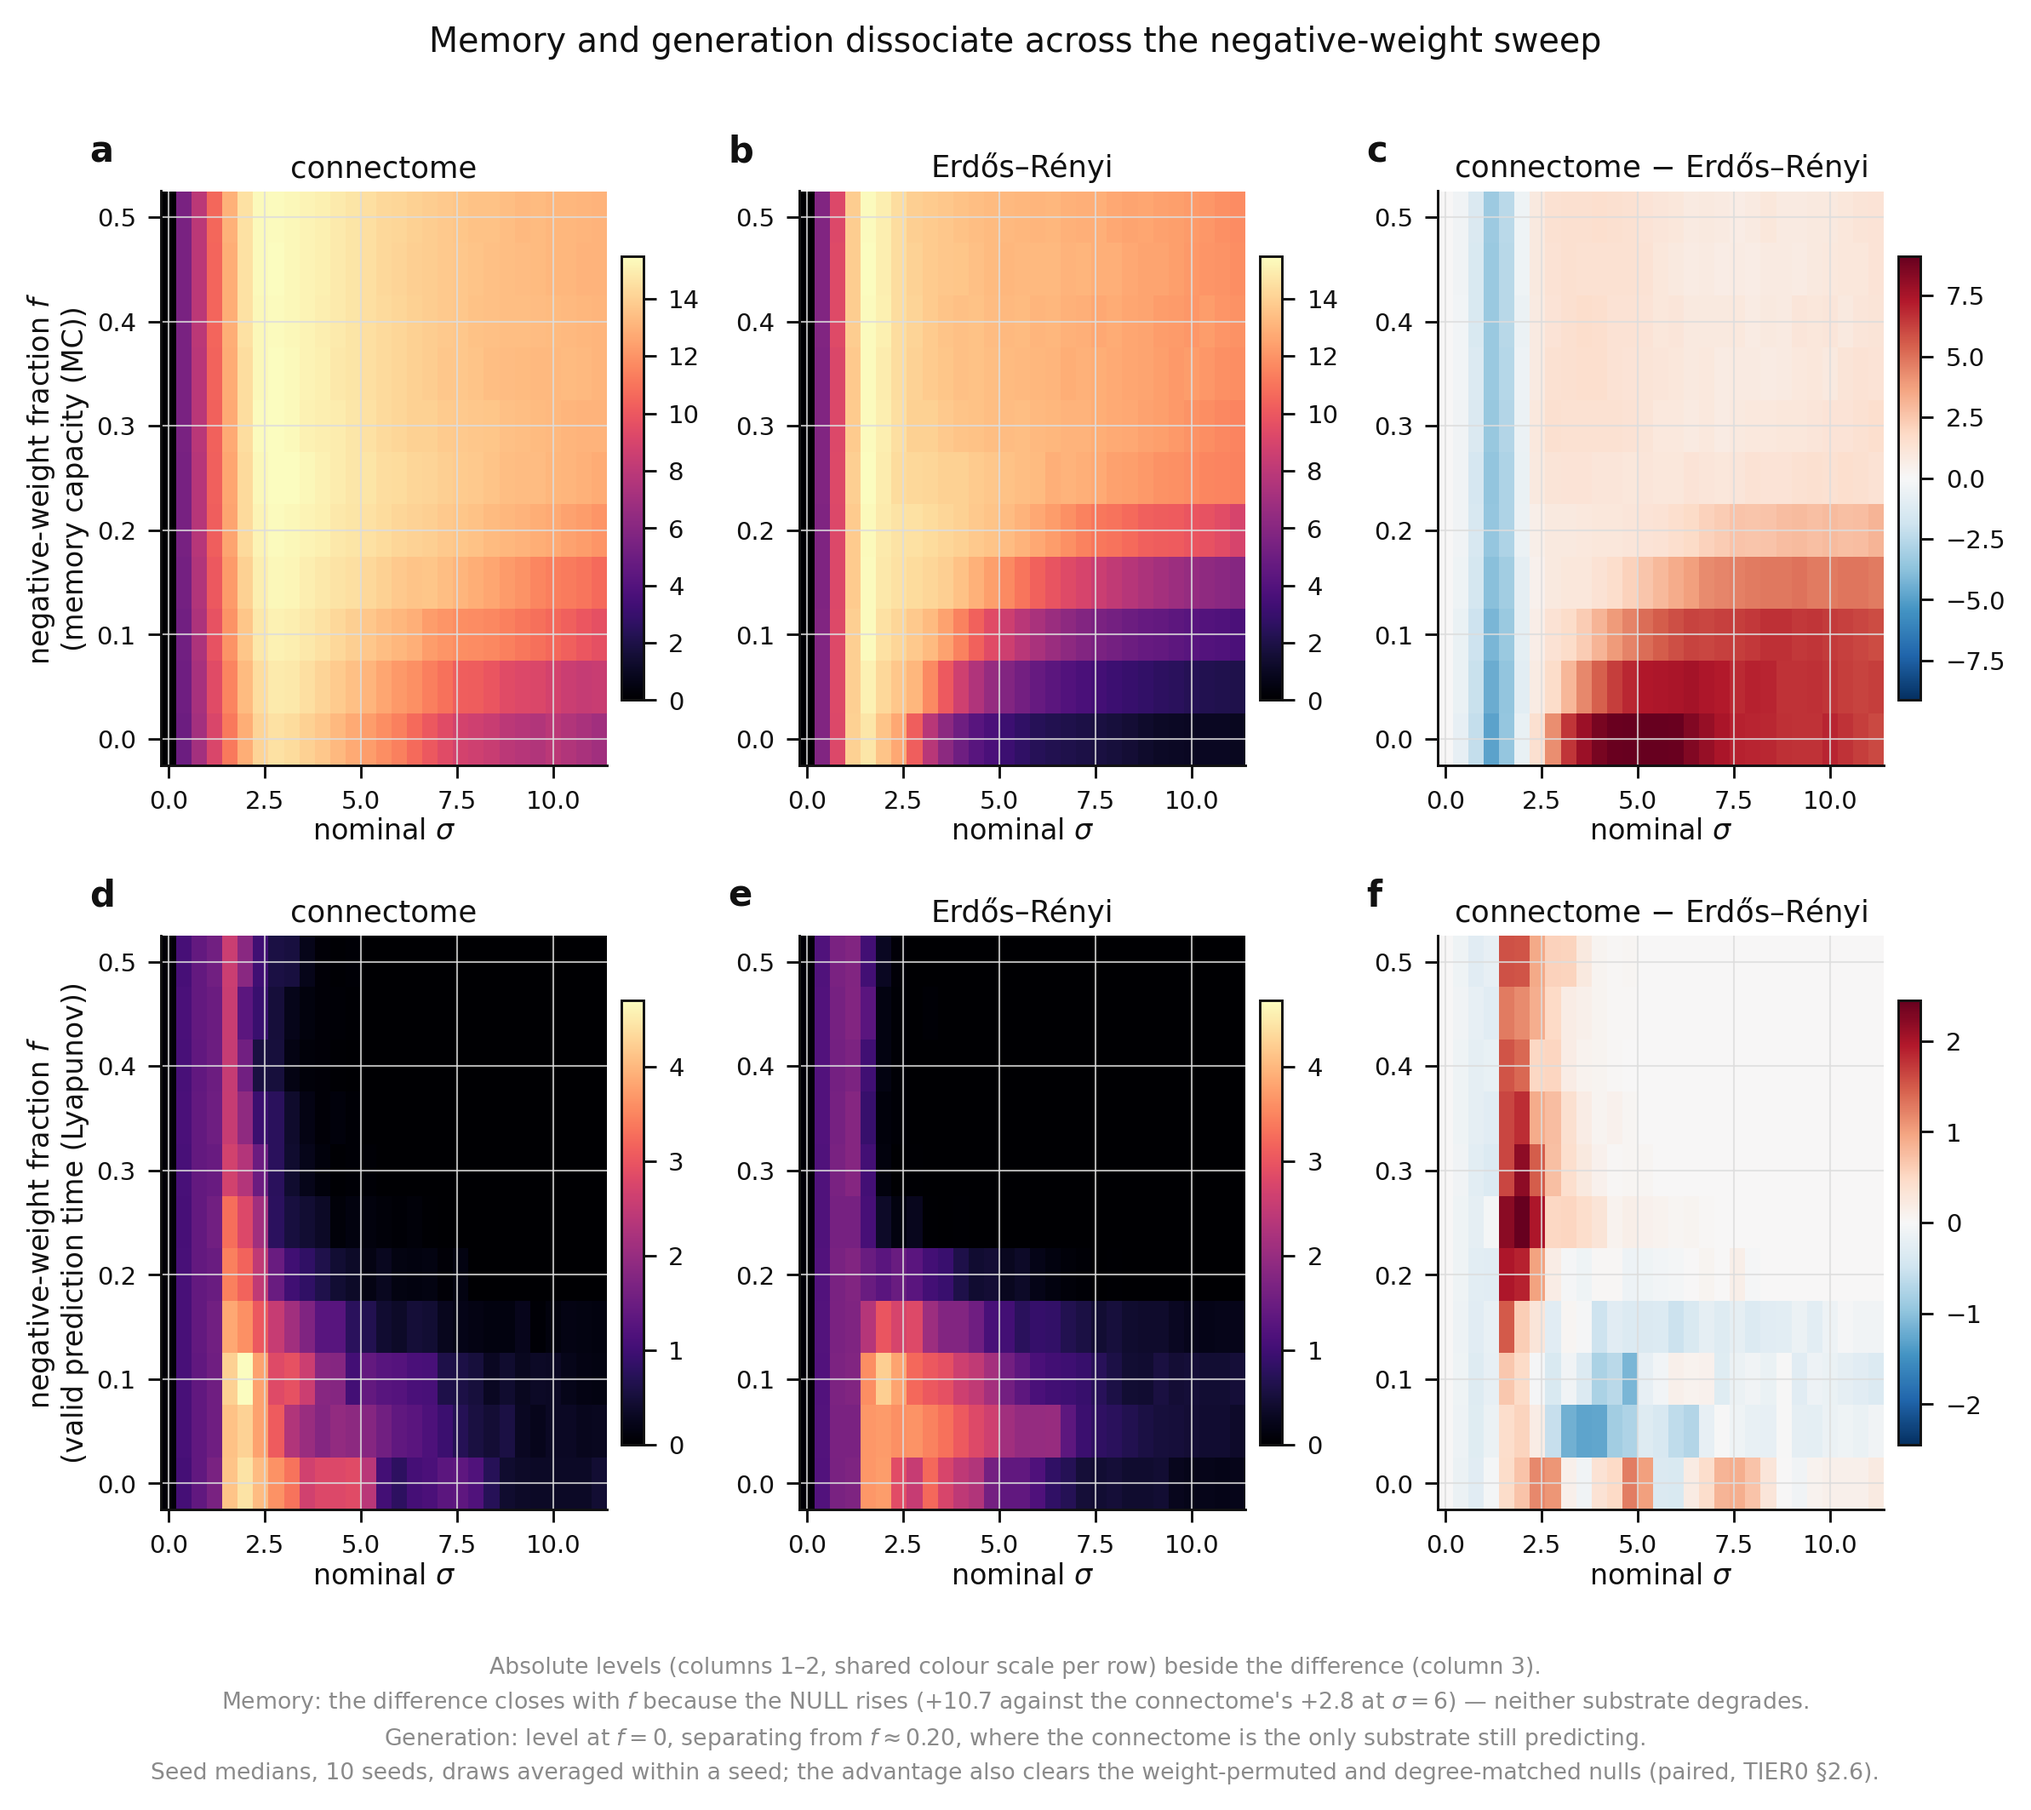
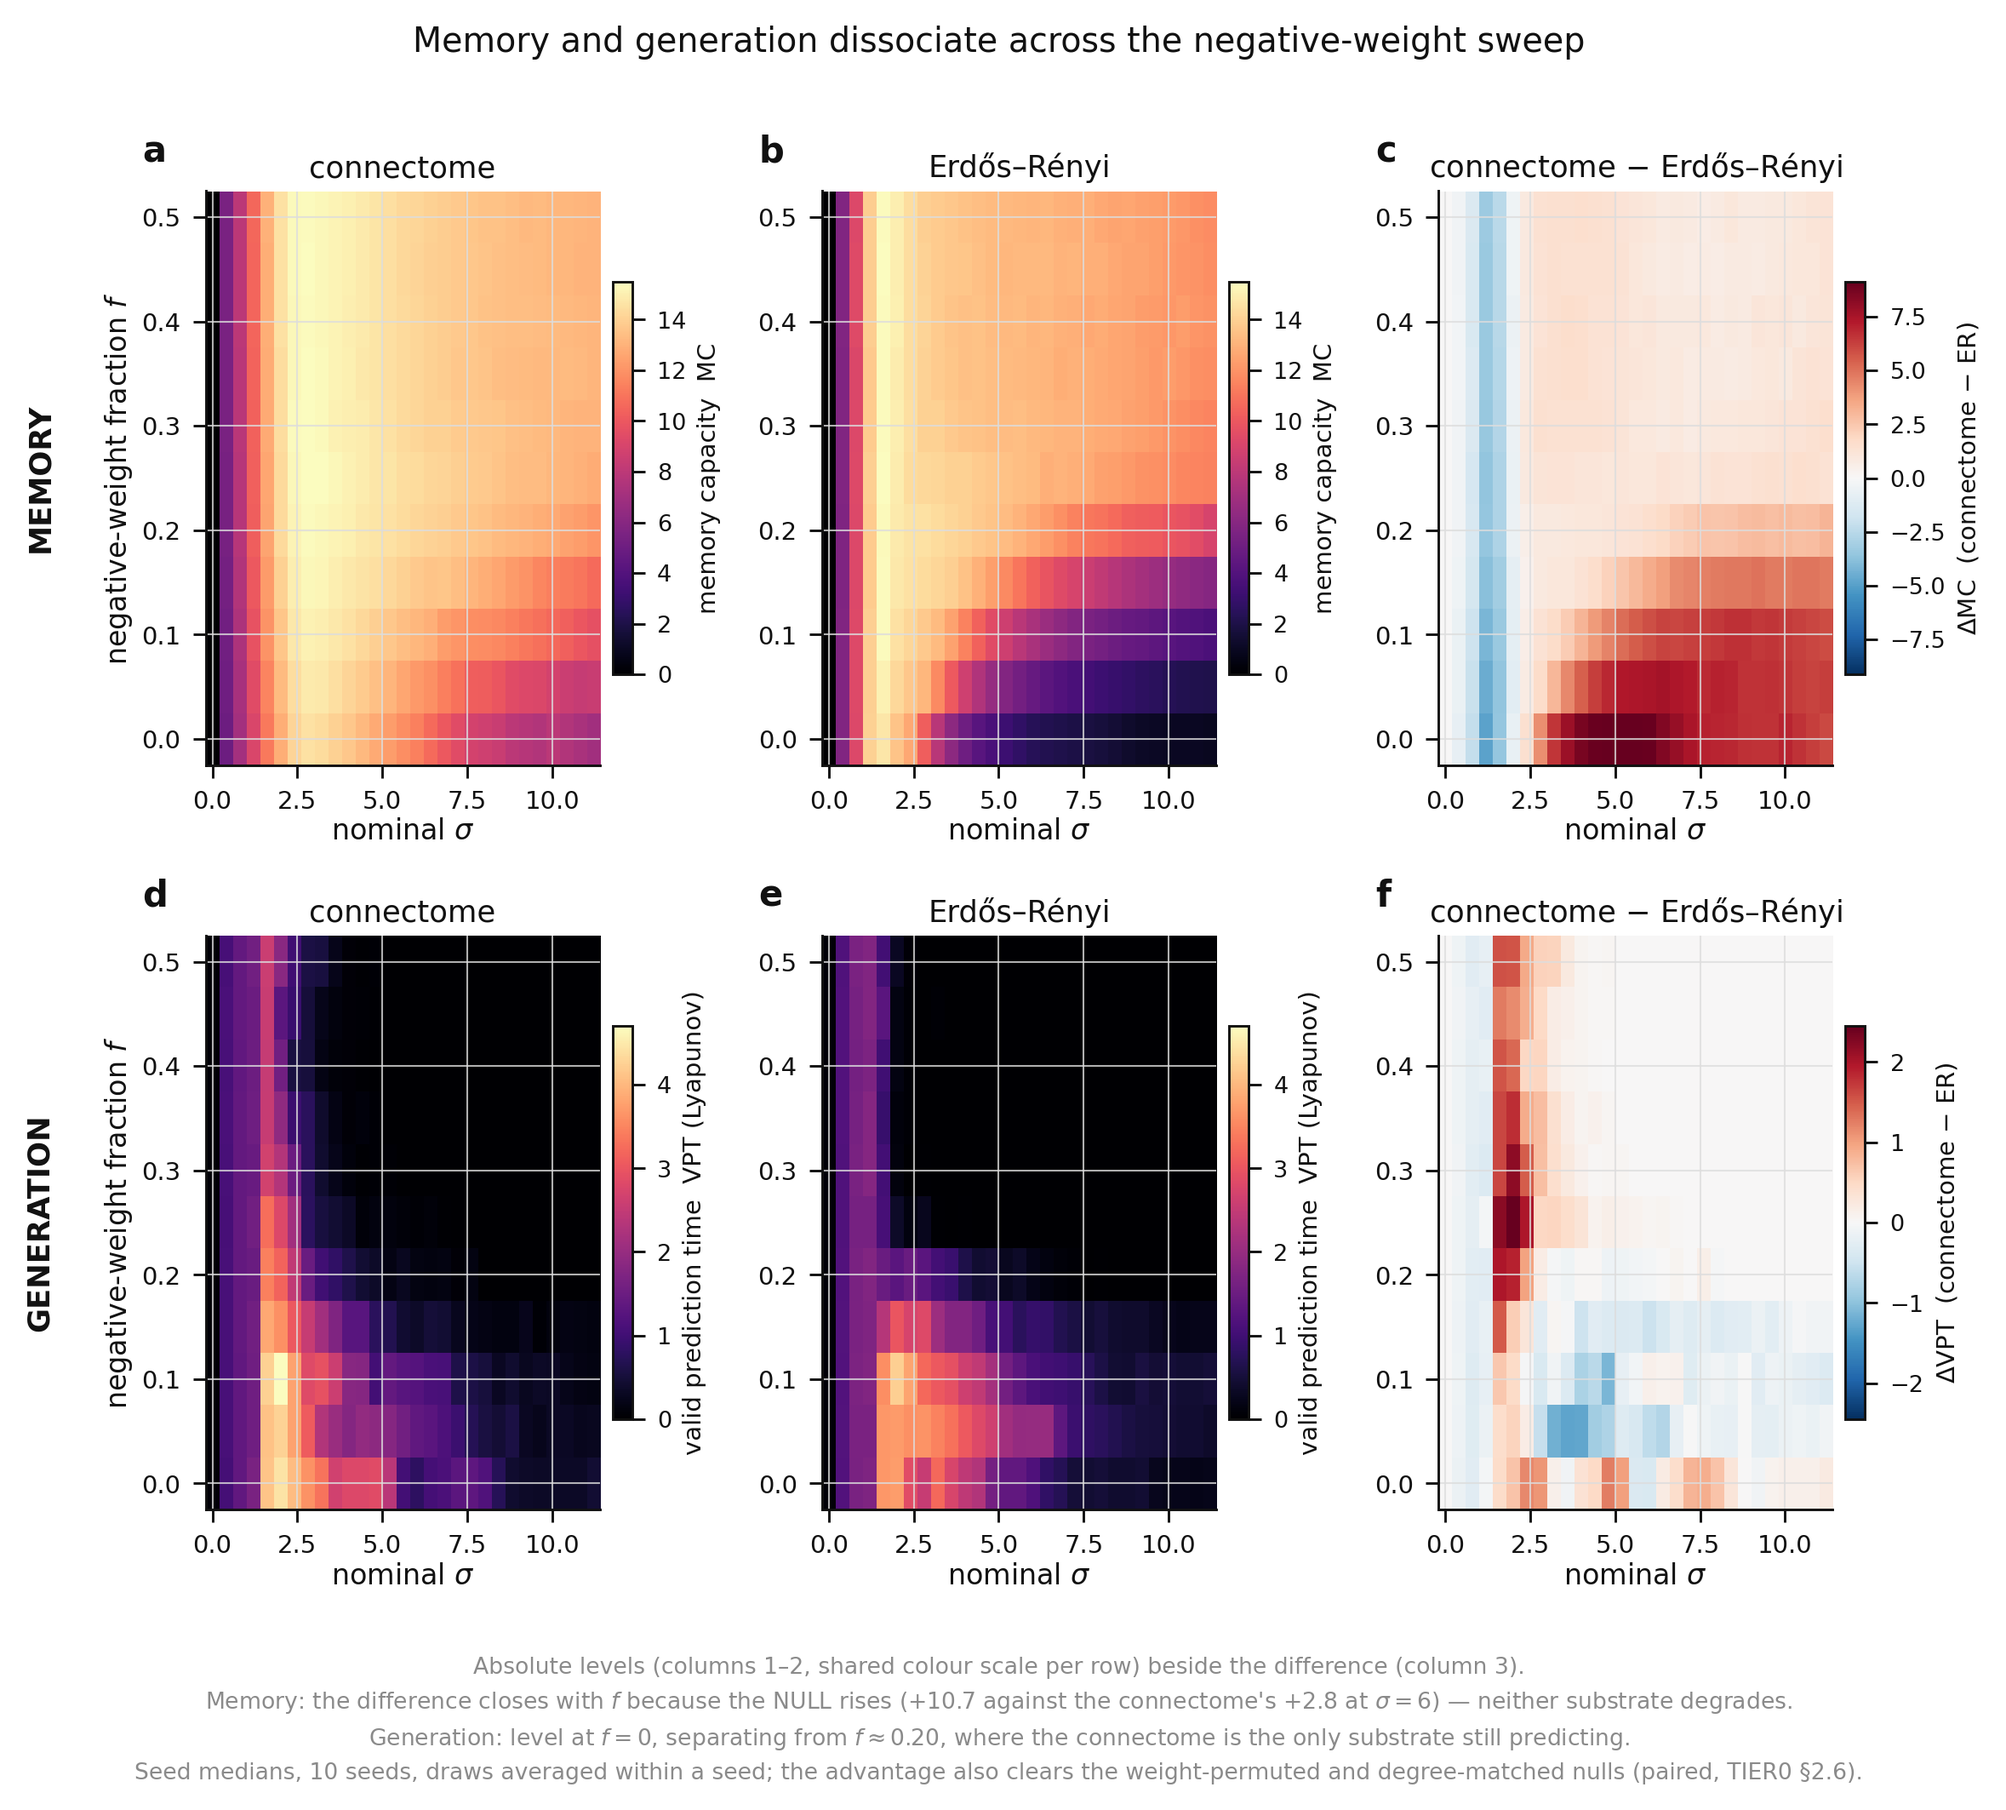
fix(figures): label figA colourbars with the quantity they encode
The metric name sat in the y-axis label next to "negative-weight fraction f",
where it read as if it described f rather than the colour. Moved to the
colourbar (memory capacity MC / valid prediction time VPT / dMC / dVPT), left
the y-axis label as f alone, and added MEMORY / GENERATION row labels clear of
both.

diff --git a/experiments/human/analysis/criticality_matched/panels.py b/experiments/human/analysis/criticality_matched/panels.py
@@ -675,7 +675,14 @@ def fig_dissociation(front: pd.DataFrame, path_stem, contrast: str = "erdos_reny
     from matplotlib.colors import TwoSlopeNorm
 
     metrics = [m for m in ("mc", "vpt") if m in set(front.metric)]
-    titles = {"mc": "memory capacity (MC)", "vpt": "valid prediction time (Lyapunov)"}
+    # (absolute-column label, unused, delta-column label) -- what the COLOUR encodes.
+    bar_labels = {
+        "mc": ("memory capacity  MC", None,
+               r"$\Delta$MC  (connectome $-$ ER)"),
+        "vpt": ("valid prediction time  VPT (Lyapunov)", None,
+                r"$\Delta$VPT  (connectome $-$ ER)"),
+    }
+    row_titles = {"mc": "MEMORY", "vpt": "GENERATION"}
     with plt.rc_context(_RC):
         fig, axes = plt.subplots(len(metrics), 3, figsize=(8.0, 3.1 * len(metrics)),
                                  squeeze=False)
@@ -707,12 +714,21 @@ def fig_dissociation(front: pd.DataFrame, path_stem, contrast: str = "erdos_reny
                                aspect="auto",
                                extent=[xv[0] - dx / 2, xv[-1] + dx / 2,
                                        fv[0] - df_ / 2, fv[-1] + df_ / 2], **kwargs)
-                fig.colorbar(im, ax=ax, fraction=0.046, pad=0.03)
+                # The quantity being plotted is the COLOUR, so it is named on the
+                # colourbar. Putting it beside the y-axis label reads as if it
+                # described f.
+                cbar = fig.colorbar(im, ax=ax, fraction=0.046, pad=0.03)
+                cbar.set_label(bar_labels[metric][2 if col == 2 else 0], fontsize=7,
+                               labelpad=3)
+                cbar.ax.tick_params(labelsize=6.5)
                 ax.set_title(label, pad=4)
                 ax.set_xlabel(r"nominal $\sigma$", labelpad=1)
                 if col == 0:
-                    ax.set_ylabel(f"negative-weight fraction $f$\n({titles[metric]})",
-                                  labelpad=2)
+                    ax.set_ylabel(r"negative-weight fraction $f$", labelpad=2)
+                    # Row identity, once per row, clear of the axis labels.
+                    ax.text(-0.42, 0.5, row_titles[metric], transform=ax.transAxes,
+                            rotation=90, va="center", ha="center", fontsize=8.5,
+                            fontweight="bold", color=_INK)
                 _style(ax)
                 _label(ax, "abcdef"[row * 3 + col])
         fig.text(0.5, -0.02,
